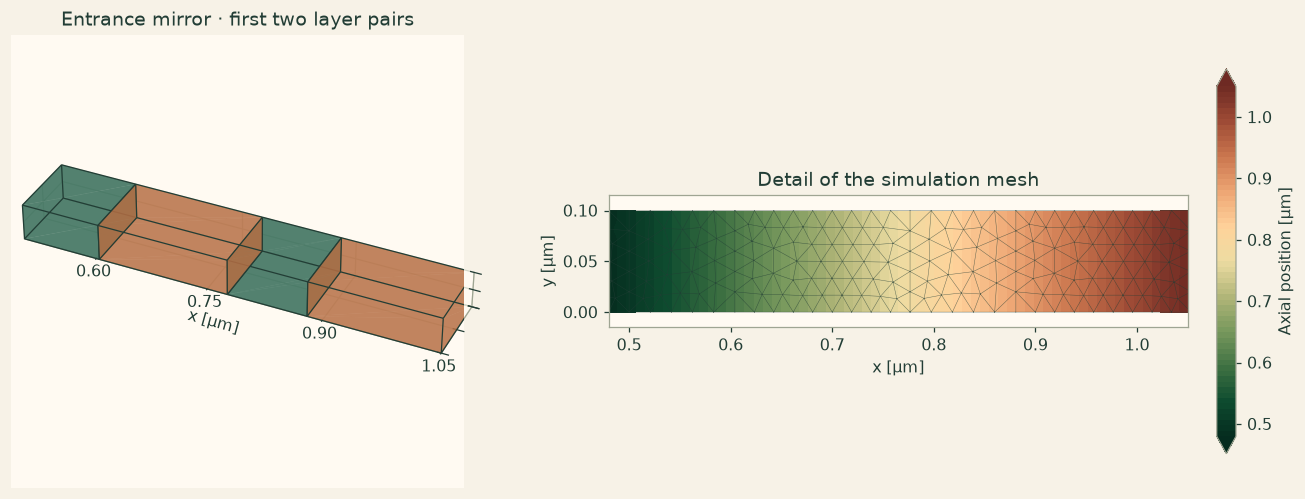
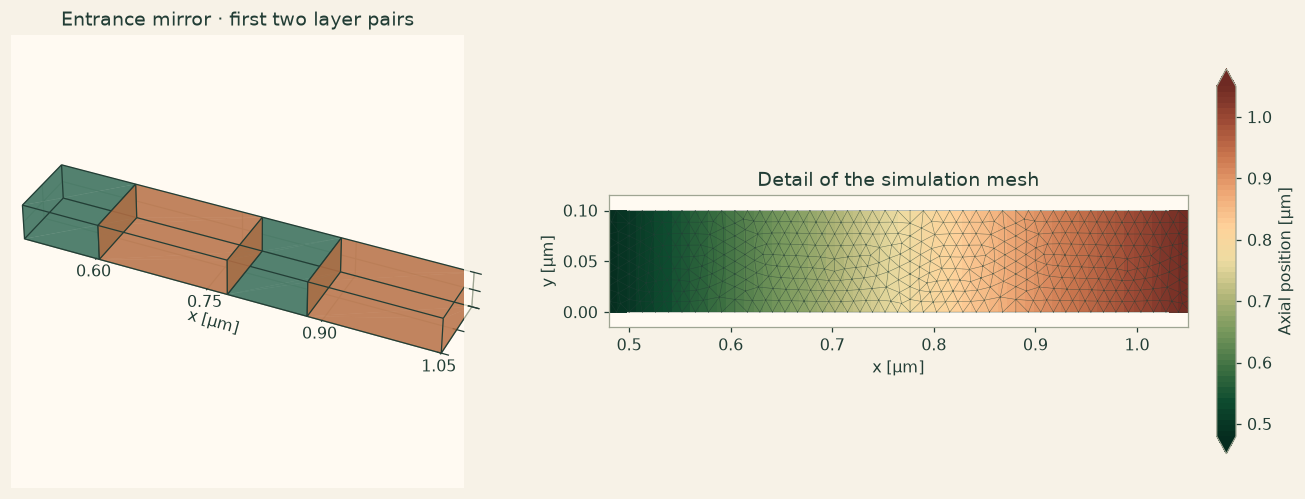
Update the Bragg resonator transmission study on 12,706 triangles

Changed region(s): [[0.5824, 0.4208, 0.9195, 0.6313]]

diff --git a/examples/notebooks/fabry_perot_bragg_mirror_resonator.html b/examples/notebooks/fabry_perot_bragg_mirror_resonator.html
@@ -22,7 +22,7 @@
 <div class="layout">
 <details class="menu"><summary>Menu</summary><nav class="side" aria-label="Documentation"><a class="" href="../../index.html">Overview</a><a class="" href="../../quickstart.html">Quickstart</a><p class="group">Examples</p><a class="" href="../../examples/index.html">Example library</a><a class="" href="../../examples/method-swap.html">One model, five discretizations</a><a class="" href="../../examples/cantilever.html">A 3D cantilever</a><a class="" href="../../examples/custom-equation.html">Your own equation</a><p class="group">Guide</p><p class="part">Start here</p><a class="" href="../../guide/how-to-use-this-guide.html"><span class="num"></span> How to use this guide</a><p class="part">Part I · From model to notebook</p><a class="" href="../../guide/1-set-up-the-notebook.html"><span class="num">1</span> Set up the notebook</a><a class="" href="../../guide/2-transient-radiation-and-vibration.html"><span class="num">2</span> Transient radiation and vibration</a><a class="" href="../../guide/3-three-spatial-studies.html"><span class="num">3</span> Three spatial studies</a><a class="" href="../../guide/4-read-visualize-and-export-results.html"><span class="num">4</span> Read, visualize and export results</a><p class="part">Part II · Physics model selection</p><a class="" href="../../guide/5-build-a-first-case-in-each-physics-package/index.html"><span class="num">5</span> Build a first case in each physics package</a><a class="" href="../../guide/6-worked-physics-and-service-recipes/index.html"><span class="num">6</span> Worked physics and service recipes</a><p class="part">Part III · Select and combine numerical methods</p><a class="" href="../../guide/7-numerical-configuration-and-spatial-operators.html"><span class="num">7</span> Numerical configuration and spatial operators</a><a class="" href="../../guide/8-solvers-time-integration-and-coupled-fields.html"><span class="num">8</span> Solvers, time integration and coupled fields</a><a class="" href="../../guide/9-worked-numerical-comparisons/index.html"><span class="num">9</span> Worked numerical comparisons</a><a class="" href="../../guide/10-executable-numerical-recipes/index.html"><span class="num">10</span> Executable numerical recipes</a><a class="" href="../../guide/11-define-and-solve-your-own-equation.html"><span class="num">11</span> Define and solve your own equation</a><a class="" href="../../guide/12-diagnose-a-notebook-result.html"><span class="num">12</span> Diagnose a notebook result</a><a class="" href="../../guide/13-coverage-and-navigation-by-symbol/index.html"><span class="num">13</span> Coverage and navigation by symbol</a><p class="part">API reference</p><a class="" href="../../reference/a-physics-api-reference/index.html"><span class="num">A</span> Physics API reference</a><a class="" href="../../reference/b-numerical-api-reference/index.html"><span class="num">B</span> Numerical API reference</a><a class="" href="../../reference/c-exposed-operator-and-service-namespaces/index.html"><span class="num">C</span> Exposed operator and service namespaces</a><p class="group">Teaching</p><a class="" href="../../teaching/index.html">For instructors</a><a class="" href="../../teaching/course.html">A 14-week lab course</a><a class="" href="../../teaching/exercises.html">Exercise sheets</a><p class="group">Trust and terms</p><a class="" href="../../verification.html">Verification</a><a class="" href="../../plans.html">Plans and licence</a></nav></details>
 <div class="side-wrap"><nav class="side" aria-label="Documentation"><a class="" href="../../index.html">Overview</a><a class="" href="../../quickstart.html">Quickstart</a><p class="group">Examples</p><a class="" href="../../examples/index.html">Example library</a><a class="" href="../../examples/method-swap.html">One model, five discretizations</a><a class="" href="../../examples/cantilever.html">A 3D cantilever</a><a class="" href="../../examples/custom-equation.html">Your own equation</a><p class="group">Guide</p><p class="part">Start here</p><a class="" href="../../guide/how-to-use-this-guide.html"><span class="num"></span> How to use this guide</a><p class="part">Part I · From model to notebook</p><a class="" href="../../guide/1-set-up-the-notebook.html"><span class="num">1</span> Set up the notebook</a><a class="" href="../../guide/2-transient-radiation-and-vibration.html"><span class="num">2</span> Transient radiation and vibration</a><a class="" href="../../guide/3-three-spatial-studies.html"><span class="num">3</span> Three spatial studies</a><a class="" href="../../guide/4-read-visualize-and-export-results.html"><span class="num">4</span> Read, visualize and export results</a><p class="part">Part II · Physics model selection</p><a class="" href="../../guide/5-build-a-first-case-in-each-physics-package/index.html"><span class="num">5</span> Build a first case in each physics package</a><a class="" href="../../guide/6-worked-physics-and-service-recipes/index.html"><span class="num">6</span> Worked physics and service recipes</a><p class="part">Part III · Select and combine numerical methods</p><a class="" href="../../guide/7-numerical-configuration-and-spatial-operators.html"><span class="num">7</span> Numerical configuration and spatial operators</a><a class="" href="../../guide/8-solvers-time-integration-and-coupled-fields.html"><span class="num">8</span> Solvers, time integration and coupled fields</a><a class="" href="../../guide/9-worked-numerical-comparisons/index.html"><span class="num">9</span> Worked numerical comparisons</a><a class="" href="../../guide/10-executable-numerical-recipes/index.html"><span class="num">10</span> Executable numerical recipes</a><a class="" href="../../guide/11-define-and-solve-your-own-equation.html"><span class="num">11</span> Define and solve your own equation</a><a class="" href="../../guide/12-diagnose-a-notebook-result.html"><span class="num">12</span> Diagnose a notebook result</a><a class="" href="../../guide/13-coverage-and-navigation-by-symbol/index.html"><span class="num">13</span> Coverage and navigation by symbol</a><p class="part">API reference</p><a class="" href="../../reference/a-physics-api-reference/index.html"><span class="num">A</span> Physics API reference</a><a class="" href="../../reference/b-numerical-api-reference/index.html"><span class="num">B</span> Numerical API reference</a><a class="" href="../../reference/c-exposed-operator-and-service-namespaces/index.html"><span class="num">C</span> Exposed operator and service namespaces</a><p class="group">Teaching</p><a class="" href="../../teaching/index.html">For instructors</a><a class="" href="../../teaching/course.html">A 14-week lab course</a><a class="" href="../../teaching/exercises.html">Exercise sheets</a><p class="group">Trust and terms</p><a class="" href="../../verification.html">Verification</a><a class="" href="../../plans.html">Plans and licence</a></nav></div>
-<main id="content"><p class="crumbs"><a href="../../index.html">Docs</a> › <a href="../../examples/index.html">Examples</a> › Resolving a resonance between Bragg mirrors</p><p class="eyebrow">Wave optics · 2D</p><h1>Resolving a resonance between Bragg mirrors</h1><p class="lead">Two dielectric mirrors enclose an air gap. A two-dimensional Maxwell frequency sweep resolves the narrow transmission line inside their stop band.</p><div class="chips"><span>STEP import</span><span>Floquet ports</span><span>Bragg mirrors</span><span>Linewidth</span></div><p class="note"><strong>Run locally with OneSimulation.</strong> The example downloads are free. Running them requires an activated runtime. Runtime Alpha 0.2.1a8 · CPython 3.13 on macOS (Apple Silicon), Ubuntu 22.04 (x86-64), and Windows x64. <a href="../../quickstart.html#need">Installation and activation</a> · <a href="../../plans.html">View pilot plans</a>. <a href="../../verification.html#scope">Scope of the reference checks</a>.</p><div class="button-row"><a class="button" href="../../notebooks/fabry_perot_bragg_mirror_resonator.ipynb" download>Download the notebook (.ipynb)</a><a class="button light" href="../../notebooks/fabry_perot_bragg_mirror_resonator.py" download>Download the script (.py)</a><a class="button light" href="../../notebooks/fabry_perot_bragg_mirror_resonator.step" download>Download the geometry (.step)</a><a class="button light" href="../../notebooks/fabry_perot_bragg_mirror_resonator_geometry.py" download>Download the geometry script (.py)</a></div><figure><a href="../../figures/library/fabry_perot_bragg_mirror_resonator.png" aria-label="Open result plot for Resolving a resonance between Bragg mirrors at full size" style="display:inline-block;max-width:100%;cursor:zoom-in"><img loading="lazy" src="../../figures/library/fabry_perot_bragg_mirror_resonator.png" alt="Resolving a resonance between Bragg mirrors"></a><figcaption>Resolving a resonance between Bragg mirrors. Run the notebook to produce its own figures.</figcaption></figure><h2 id="what">What it computes</h2><p>Five pairs of quarter-wave layers form each mirror. A plane wave enters the periodic strip through a Floquet port. Two frequency sweeps compare the finite element transmission with the transfer matrix of the entire stack. The script that builds the STEP files comes with the notebook.</p><h2 id="checks">What it checks</h2><p>The resonance peaks at 299.7925 THz. The computed full width at half maximum is 182.4 GHz against 181.2 GHz from the layer stack. The maximum absolute difference in power transmittance over the sampled frequencies is 0.00131.</p><h2 id="geometry">Geometry</h2><p>The notebook starts at the import of the CAD files <a href="../../notebooks/fabry_perot_bragg_mirror_resonator.step" download><code>fabry_perot_bragg_mirror_resonator.step</code></a>, <a href="../../notebooks/fabry_perot_bragg_mirror_resonator_high.step" download><code>fabry_perot_bragg_mirror_resonator_high.step</code></a>, <a href="../../notebooks/fabry_perot_bragg_mirror_resonator_low.step" download><code>fabry_perot_bragg_mirror_resonator_low.step</code></a>: STEP (AP242), readable by any CAD program, with the names of the faces that the boundary conditions use. Put them next to the notebook.</p><figure><a href="../../figures/library/fabry_perot_bragg_mirror_resonator_geometry.png" aria-label="Open geometry for Resolving a resonance between Bragg mirrors at full size" style="display:inline-block;max-width:100%;cursor:zoom-in"><img loading="lazy" src="../../figures/library/fabry_perot_bragg_mirror_resonator_geometry.png" alt="Geometry of the example: Resolving a resonance between Bragg mirrors"></a><figcaption>The geometry as the notebook reads it from the STEP file and draws it.</figcaption></figure><div class="button-row"><a class="button light" href="../../notebooks/fabry_perot_bragg_mirror_resonator.step" download>Download the geometry (.step)</a><a class="button light" href="../../notebooks/fabry_perot_bragg_mirror_resonator_high.step" download>Download the part high (.step)</a><a class="button light" href="../../notebooks/fabry_perot_bragg_mirror_resonator_low.step" download>Download the part low (.step)</a><a class="button light" href="../../notebooks/fabry_perot_bragg_mirror_resonator_geometry.py" download>Download the geometry script (.py)</a></div><h3 id="geometry-script">The geometry script</h3><p>The script <a href="../../notebooks/fabry_perot_bragg_mirror_resonator_geometry.py" download><code>fabry_perot_bragg_mirror_resonator_geometry.py</code></a> builds the geometry with the CAD objects of OneSimulation and writes the files. Change a dimension there, run it, and run the notebook again.</p><div class="notebook"><div class="nb-code"><pre class="code" data-lang="python"><code><span class="sd">&quot;&quot;&quot;Geometry of the OneSimulation example &quot;Fabry-Perot resonator with Bragg mirrors&quot;.</span>
+<main id="content"><p class="crumbs"><a href="../../index.html">Docs</a> › <a href="../../examples/index.html">Examples</a> › Resolving a resonance between Bragg mirrors</p><p class="eyebrow">Wave optics · 2D</p><h1>Resolving a resonance between Bragg mirrors</h1><p class="lead">Two dielectric mirrors enclose an air gap. A two-dimensional Maxwell frequency sweep resolves the narrow transmission line inside their stop band.</p><div class="chips"><span>STEP import</span><span>Floquet ports</span><span>Bragg mirrors</span><span>Linewidth</span></div><p class="note"><strong>Run locally with OneSimulation.</strong> The example downloads are free. Running them requires an activated runtime. Runtime Alpha 0.2.1a8 · CPython 3.13 on macOS (Apple Silicon), Ubuntu 22.04 (x86-64), and Windows x64. <a href="../../quickstart.html#need">Installation and activation</a> · <a href="../../plans.html">View pilot plans</a>. <a href="../../verification.html#scope">Scope of the reference checks</a>.</p><div class="button-row"><a class="button" href="../../notebooks/fabry_perot_bragg_mirror_resonator.ipynb" download>Download the notebook (.ipynb)</a><a class="button light" href="../../notebooks/fabry_perot_bragg_mirror_resonator.py" download>Download the script (.py)</a><a class="button light" href="../../notebooks/fabry_perot_bragg_mirror_resonator.step" download>Download the geometry (.step)</a><a class="button light" href="../../notebooks/fabry_perot_bragg_mirror_resonator_geometry.py" download>Download the geometry script (.py)</a></div><figure><a href="../../figures/library/fabry_perot_bragg_mirror_resonator.png" aria-label="Open result plot for Resolving a resonance between Bragg mirrors at full size" style="display:inline-block;max-width:100%;cursor:zoom-in"><img loading="lazy" src="../../figures/library/fabry_perot_bragg_mirror_resonator.png" alt="Resolving a resonance between Bragg mirrors"></a><figcaption>Resolving a resonance between Bragg mirrors. Run the notebook to produce its own figures.</figcaption></figure><h2 id="what">What it computes</h2><p>Five pairs of quarter-wave layers form each mirror. A plane wave enters the periodic strip through a Floquet port. Two frequency sweeps compare the finite element transmission with the transfer matrix of the entire stack. The script that builds the STEP files comes with the notebook.</p><h2 id="checks">What it checks</h2><p>With the same 122 frequencies, refining 5,114 to 12,706 triangles (3,003 to 7,062 vertices) reduces the maximum absolute transmittance error from 0.001309 to 0.000161. The central mode peaks at 299.7925 THz. Its sampled linewidth is 182.4 GHz on both meshes, against 181.2 GHz from the layer stack.</p><h2 id="geometry">Geometry</h2><p>Save the STEP files <a href="../../notebooks/fabry_perot_bragg_mirror_resonator.step" download><code>fabry_perot_bragg_mirror_resonator.step</code></a>, <a href="../../notebooks/fabry_perot_bragg_mirror_resonator_high.step" download><code>fabry_perot_bragg_mirror_resonator_high.step</code></a>, <a href="../../notebooks/fabry_perot_bragg_mirror_resonator_low.step" download><code>fabry_perot_bragg_mirror_resonator_low.step</code></a> next to the notebook before running it.</p><figure><a href="../../figures/library/fabry_perot_bragg_mirror_resonator_geometry.png" aria-label="Open geometry for Resolving a resonance between Bragg mirrors at full size" style="display:inline-block;max-width:100%;cursor:zoom-in"><img loading="lazy" src="../../figures/library/fabry_perot_bragg_mirror_resonator_geometry.png" alt="Geometry of the example: Resolving a resonance between Bragg mirrors"></a><figcaption>Geometry used by the notebook.</figcaption></figure><div class="button-row"><a class="button light" href="../../notebooks/fabry_perot_bragg_mirror_resonator.step" download>Download the geometry (.step)</a><a class="button light" href="../../notebooks/fabry_perot_bragg_mirror_resonator_high.step" download>Download the part high (.step)</a><a class="button light" href="../../notebooks/fabry_perot_bragg_mirror_resonator_low.step" download>Download the part low (.step)</a><a class="button light" href="../../notebooks/fabry_perot_bragg_mirror_resonator_geometry.py" download>Download the geometry script (.py)</a></div><h3 id="geometry-script">The geometry script</h3><p>The script <a href="../../notebooks/fabry_perot_bragg_mirror_resonator_geometry.py" download><code>fabry_perot_bragg_mirror_resonator_geometry.py</code></a> builds the geometry with the CAD objects of OneSimulation and writes the files. Change a dimension there, run it, and run the notebook again.</p><div class="notebook"><div class="nb-code"><pre class="code" data-lang="python"><code><span class="sd">&quot;&quot;&quot;Geometry of the OneSimulation example &quot;Fabry-Perot resonator with Bragg mirrors&quot;.</span>
 
 <span class="sd">Builds with the CAD objects of OneSimulation, drawn in micrometres as thin plates, a strip 0.1 um wide</span>
 <span class="sd">(y) along the optical axis x: air from x = 0 to 0.5, a Bragg mirror of five pairs of quarter-wave</span>
@@ -65,13 +65,14 @@
 <span class="kn">from</span><span class="w"> </span><span class="nn">onesim.visualization</span><span class="w"> </span><span class="kn">import</span> <span class="n">plots</span><span class="p">,</span> <span class="n">theme</span>
 
 <span class="n">theme</span><span class="o">.</span><span class="n">set</span><span class="p">()</span></code></pre></div><div class="nb-md"><h4>Mirror geometry and mesh</h4>
-<p>The three STEP files use micrometres. A common section cuts the strip and the mirror layers. Matching periodic boundaries along its long edges represent mirrors of infinite transverse extent.</p></div><div class="nb-code"><pre class="code" data-lang="python"><code><span class="n">stem</span> <span class="o">=</span> <span class="s2">&quot;fabry_perot_bragg_mirror_resonator&quot;</span>
+<p>The three STEP files use micrometres. A common section cuts the strip and the mirror layers. Matching periodic boundaries along its long edges represent mirrors of infinite transverse extent. The target edge length is 12.5 nm, about one eighth of the thinnest 104 nm layer. Refining from 20 nm increases the mesh from 5,114 to 12,706 triangles (3,003 to 7,062 vertices).</p></div><div class="nb-code"><pre class="code" data-lang="python"><code><span class="n">stem</span> <span class="o">=</span> <span class="s2">&quot;fabry_perot_bragg_mirror_resonator&quot;</span>
 <span class="n">strip</span> <span class="o">=</span> <span class="n">load</span><span class="p">(</span><span class="n">stem</span> <span class="o">+</span> <span class="s2">&quot;.step&quot;</span><span class="p">)</span><span class="o">.</span><span class="n">section</span><span class="p">((</span><span class="mi">0</span><span class="p">,</span> <span class="mi">0</span><span class="p">,</span> <span class="mi">1</span><span class="p">),</span> <span class="n">origin</span><span class="o">=</span><span class="p">(</span><span class="mi">0</span><span class="p">,</span> <span class="mi">0</span><span class="p">,</span> <span class="mf">0.025</span><span class="p">))</span>
 <span class="n">indices</span> <span class="o">=</span> <span class="p">{</span><span class="s2">&quot;high&quot;</span><span class="p">:</span> <span class="mf">2.4</span><span class="p">,</span> <span class="s2">&quot;low&quot;</span><span class="p">:</span> <span class="mf">1.45</span><span class="p">}</span>
 <span class="n">parts</span> <span class="o">=</span> <span class="p">{</span><span class="n">name</span><span class="p">:</span> <span class="n">load</span><span class="p">(</span><span class="sa">f</span><span class="s2">&quot;</span><span class="si">{</span><span class="n">stem</span><span class="si">}</span><span class="s2">_</span><span class="si">{</span><span class="n">name</span><span class="si">}</span><span class="s2">.step&quot;</span><span class="p">)</span> <span class="k">for</span> <span class="n">name</span> <span class="ow">in</span> <span class="n">indices</span><span class="p">}</span>
 <span class="n">layers</span> <span class="o">=</span> <span class="p">[</span><span class="n">s</span><span class="o">.</span><span class="n">named</span><span class="p">(</span><span class="n">name</span><span class="p">)</span> <span class="k">for</span> <span class="n">name</span><span class="p">,</span> <span class="n">part</span> <span class="ow">in</span> <span class="n">parts</span><span class="o">.</span><span class="n">items</span><span class="p">()</span> <span class="k">for</span> <span class="n">s</span> <span class="ow">in</span> <span class="n">part</span><span class="o">.</span><span class="n">sections</span><span class="p">((</span><span class="mi">0</span><span class="p">,</span> <span class="mi">0</span><span class="p">,</span> <span class="mi">1</span><span class="p">),</span> <span class="n">origin</span><span class="o">=</span><span class="p">(</span><span class="mi">0</span><span class="p">,</span> <span class="mi">0</span><span class="p">,</span> <span class="mf">0.025</span><span class="p">))]</span>
-<span class="n">mesh</span> <span class="o">=</span> <span class="n">scaled</span><span class="p">(</span><span class="n">TriangularMesher</span><span class="p">(</span><span class="n">target_size</span><span class="o">=</span><span class="mf">0.02</span><span class="p">,</span> <span class="n">embedded_regions</span><span class="o">=</span><span class="nb">tuple</span><span class="p">(</span><span class="n">layers</span><span class="p">),</span>
-                               <span class="n">hard_sizes</span><span class="o">=</span><span class="p">{</span><span class="s2">&quot;y_min&quot;</span><span class="p">:</span> <span class="mf">0.02</span><span class="p">,</span> <span class="s2">&quot;y_max&quot;</span><span class="p">:</span> <span class="mf">0.02</span><span class="p">})</span><span class="o">.</span><span class="n">generate</span><span class="p">(</span><span class="n">strip</span><span class="p">),</span> <span class="s2">&quot;um&quot;</span><span class="p">)</span>
+<span class="n">mesh</span> <span class="o">=</span> <span class="n">scaled</span><span class="p">(</span><span class="n">TriangularMesher</span><span class="p">(</span><span class="n">target_size</span><span class="o">=</span><span class="mf">0.0125</span><span class="p">,</span> <span class="n">embedded_regions</span><span class="o">=</span><span class="nb">tuple</span><span class="p">(</span><span class="n">layers</span><span class="p">),</span>
+                               <span class="n">hard_sizes</span><span class="o">=</span><span class="p">{</span><span class="s2">&quot;y_min&quot;</span><span class="p">:</span> <span class="mf">0.0125</span><span class="p">,</span> <span class="s2">&quot;y_max&quot;</span><span class="p">:</span> <span class="mf">0.0125</span><span class="p">})</span><span class="o">.</span><span class="n">generate</span><span class="p">(</span><span class="n">strip</span><span class="p">),</span> <span class="s2">&quot;um&quot;</span><span class="p">)</span>
+<span class="nb">print</span><span class="p">(</span><span class="sa">f</span><span class="s2">&quot;Mesh: </span><span class="si">{</span><span class="n">mesh</span><span class="o">.</span><span class="n">cell_count</span><span class="si">:</span><span class="s2">,</span><span class="si">}</span><span class="s2"> triangles, </span><span class="si">{</span><span class="nb">len</span><span class="p">(</span><span class="n">mesh</span><span class="o">.</span><span class="n">coordinates</span><span class="p">)</span><span class="si">:</span><span class="s2">,</span><span class="si">}</span><span class="s2"> vertices&quot;</span><span class="p">)</span>
 <span class="n">window</span> <span class="o">=</span> <span class="n">Box</span><span class="p">(</span><span class="n">length</span><span class="o">=</span><span class="mf">0.55</span><span class="p">,</span> <span class="n">width</span><span class="o">=</span><span class="mf">0.1</span><span class="p">,</span> <span class="n">height</span><span class="o">=</span><span class="mf">0.05</span><span class="p">,</span> <span class="n">origin</span><span class="o">=</span><span class="p">(</span><span class="mf">0.5</span><span class="p">,</span> <span class="mi">0</span><span class="p">,</span> <span class="mi">0</span><span class="p">))</span>
 <span class="n">fig</span> <span class="o">=</span> <span class="n">plots</span><span class="o">.</span><span class="n">figure</span><span class="p">(</span><span class="mi">1</span><span class="p">,</span> <span class="mi">2</span><span class="p">,</span> <span class="n">size</span><span class="o">=</span><span class="p">(</span><span class="mi">12</span><span class="p">,</span> <span class="mf">4.3</span><span class="p">))</span>
 <span class="n">plots</span><span class="o">.</span><span class="n">geometry</span><span class="p">([(</span><span class="n">part</span> <span class="o">&amp;</span> <span class="n">window</span><span class="p">)</span><span class="o">.</span><span class="n">named</span><span class="p">(</span><span class="n">name</span><span class="p">)</span> <span class="k">for</span> <span class="n">name</span><span class="p">,</span> <span class="n">part</span> <span class="ow">in</span> <span class="n">parts</span><span class="o">.</span><span class="n">items</span><span class="p">()],</span>

diff --git a/notebooks/fabry_perot_bragg_mirror_resonator.py b/notebooks/fabry_perot_bragg_mirror_resonator.py
@@ -26,15 +26,16 @@ theme.set()
 
 # ## Mirror geometry and mesh
 #
-# The three STEP files use micrometres. A common section cuts the strip and the mirror layers. Matching periodic boundaries along its long edges represent mirrors of infinite transverse extent.
+# The three STEP files use micrometres. A common section cuts the strip and the mirror layers. Matching periodic boundaries along its long edges represent mirrors of infinite transverse extent. The target edge length is 12.5 nm, about one eighth of the thinnest 104 nm layer. Refining from 20 nm increases the mesh from 5,114 to 12,706 triangles (3,003 to 7,062 vertices).
 
 stem = "fabry_perot_bragg_mirror_resonator"
 strip = load(stem + ".step").section((0, 0, 1), origin=(0, 0, 0.025))
 indices = {"high": 2.4, "low": 1.45}
 parts = {name: load(f"{stem}_{name}.step") for name in indices}
 layers = [s.named(name) for name, part in parts.items() for s in part.sections((0, 0, 1), origin=(0, 0, 0.025))]
-mesh = scaled(TriangularMesher(target_size=0.02, embedded_regions=tuple(layers),
-                               hard_sizes={"y_min": 0.02, "y_max": 0.02}).generate(strip), "um")
+mesh = scaled(TriangularMesher(target_size=0.0125, embedded_regions=tuple(layers),
+                               hard_sizes={"y_min": 0.0125, "y_max": 0.0125}).generate(strip), "um")
+print(f"Mesh: {mesh.cell_count:,} triangles, {len(mesh.coordinates):,} vertices")
 window = Box(length=0.55, width=0.1, height=0.05, origin=(0.5, 0, 0))
 fig = plots.figure(1, 2, size=(12, 4.3))
 plots.geometry([(part & window).named(name) for name, part in parts.items()],
